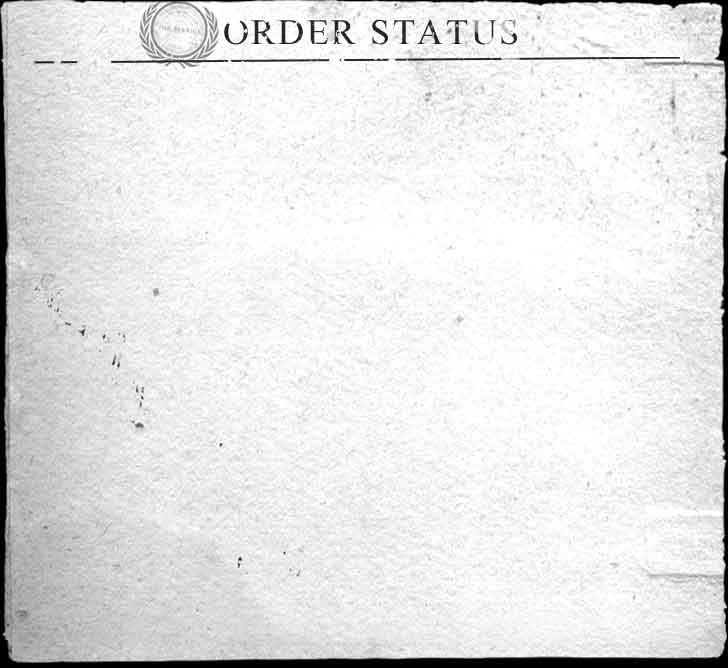
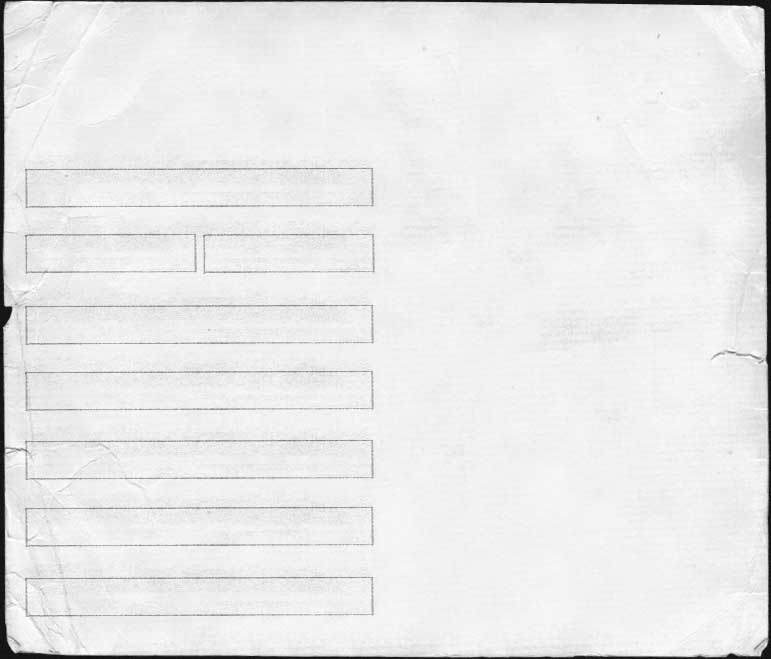
ORDER STATUS UPDATES

diff --git a/theberrics.com/public_html/app/webroot/theme/canteen/css/layout_override.css b/theberrics.com/public_html/app/webroot/theme/canteen/css/layout_override.css
@@ -1273,6 +1273,42 @@ border-bottom:1px solid #333;
 }
 
 
+/*
+	
+	ORDER STATUS
+	
+*/
+
+#canteen-order-status {
+	
+	width:771px;
+	background-image:url(/img/layout/canteen/order-status-bg.jpg);
+	background-repeat:no-repeat;
+	height:659px;
+}
+
+
+#canteen-order-status .order-status {
+
+	float:left;
+	width:385px;
+	background-color:red;
+	min-height:150px;
+	
+}
+
+#canteen-order-status .order-notes {
+	
+	float:right;
+	width:375px;
+	border-left:1px solid #999;
+	min-height:150px;
+	margin-top:20px;
+}
+
+	
+
+
 
 
 

diff --git a/theberrics.com/public_html/app/controllers/canteen_controller.php b/theberrics.com/public_html/app/controllers/canteen_controller.php
@@ -107,6 +107,10 @@ class CanteenController extends CanteenAppController {
 				
 			}
 			
+		} else {
+			
+			return $this->cakeError("error404");
+			
 		}
 		
 	}
